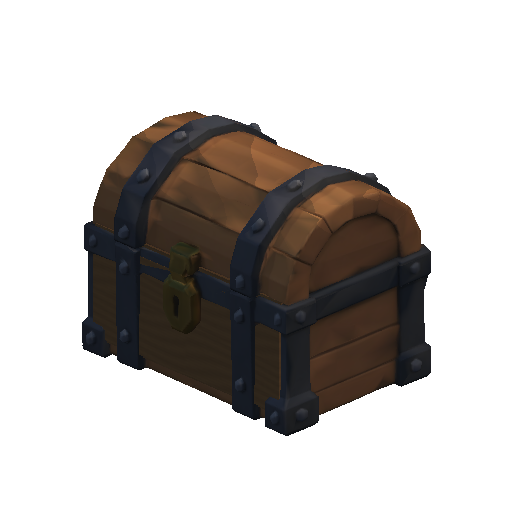
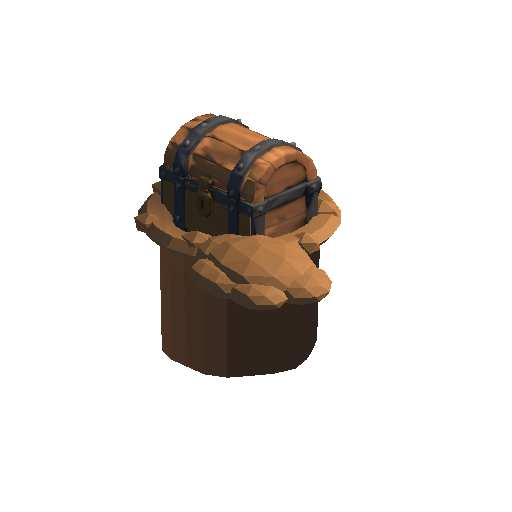
Fix excavation grass edges and raise revealed treasure

Changed region(s): [[0.1562, 0.2188, 0.8438, 0.875]]

diff --git a/src/game/objects/treasure/BuriedTreasureField.js b/src/game/objects/treasure/BuriedTreasureField.js
@@ -75,6 +75,9 @@ const HOLE_INITIAL_SCALE = 0.42;
 const BLOCKED_DIG_HOLE_SCALE = 0.36;
 const HOLE_EXPAND_DURATION = 0.36;
 const CHEST_EMERGE_DURATION = 0.72;
+const CHEST_BURIAL_DEPTH = 0.58;
+// Cover the cavity's uneven upper edge (up to 0.324 m), beneath the soil rim.
+const HOLE_SURFACE_CUT_RADIUS = 0.335;
 const CHEST_OPEN_DURATION = 0.62;
 const CHEST_FADE_DURATION = 0.82;
 const CHEST_COLLISION_RADIUS = 0.3;
@@ -548,7 +551,7 @@ export class BuriedTreasureField {
         y: target.y,
         z: target.z,
       });
-      site.chest.setLocalPosition(site.x, site.y - 0.58, site.z);
+      site.chest.setLocalPosition(site.x, site.y - CHEST_BURIAL_DEPTH, site.z);
       site.chest.enabled = true;
       this.#buriedChests.delete(target.id);
     }
@@ -1102,7 +1105,7 @@ export class BuriedTreasureField {
   #setExcavationScale(site, scale) {
     site.hole.setLocalScale(scale, scale, scale);
     site.earthPile.setLocalScale(scale, scale, scale);
-    this.#onTerrainExcavated?.(site, 0.31 * scale);
+    this.#onTerrainExcavated?.(site, HOLE_SURFACE_CUT_RADIUS * scale);
   }
 
   /**
@@ -1173,7 +1176,7 @@ export class BuriedTreasureField {
     site.chest = this.#modelLibrary.instantiate(chestModelUrl);
     site.chest.name = `Buried treasure chest ${site.id}`;
     site.chest.setLocalScale(0.72, 0.72, 0.72);
-    site.chest.setLocalPosition(site.x, site.y - 0.58, site.z);
+    site.chest.setLocalPosition(site.x, site.y - CHEST_BURIAL_DEPTH, site.z);
     const openTrack = this.#modelLibrary
       .getAnimationTracks(chestModelUrl, [TREASURE_CHEST_ANIMATION.OPEN])
       .get(TREASURE_CHEST_ANIMATION.OPEN);
@@ -1409,7 +1412,7 @@ export class BuriedTreasureField {
       site.elapsed = Math.min(CHEST_EMERGE_DURATION, site.elapsed + deltaTime);
       const progress = site.elapsed / CHEST_EMERGE_DURATION;
       const eased = 1 - (1 - progress) ** 3;
-      site.chest.setLocalPosition(site.x, site.y - 0.58 + eased * 0.18, site.z);
+      site.chest.setLocalPosition(site.x, site.y - CHEST_BURIAL_DEPTH * (1 - eased), site.z);
       if (progress >= 1) {
         site.state = "closed";
         site.elapsed = 0;

diff --git a/test/unit/game/objects/treasure/buried-treasure-field.test.js b/test/unit/game/objects/treasure/buried-treasure-field.test.js
@@ -391,10 +391,14 @@ it("reveals the already instantiated chest and spawns its stored contents withou
     },
     getAnimationTracks: () => new Map([["Open", { duration: 1 }], ["open", { duration: 1 }]]),
   };
+  let cutRadius = 0;
   const field = new BuriedTreasureField({
     pc,
     mapData,
     modelLibrary,
+    onTerrainExcavated: (position, radius) => {
+      cutRadius = radius;
+    },
     app: {
       on: (event, callback) => {
         update = callback;
@@ -434,6 +438,10 @@ it("reveals the already instantiated chest and spawns its stored contents withou
     update(0.1);
   }
   assert.equal(field.canOpen(target.id), true);
+  assert.ok(cutRadius > 0.324 && cutRadius < 0.35,
+    "the terrain cut clears the uneven cavity edge while staying beneath its soil rim");
+  assert.ok(Math.abs(chest.getLocalPosition().y - target.y) < 1e-6,
+    "the chest base rises all the way to the ground surface");
   field.tool = {};
   const chestInteraction = field.findInteraction({
     hero: {
